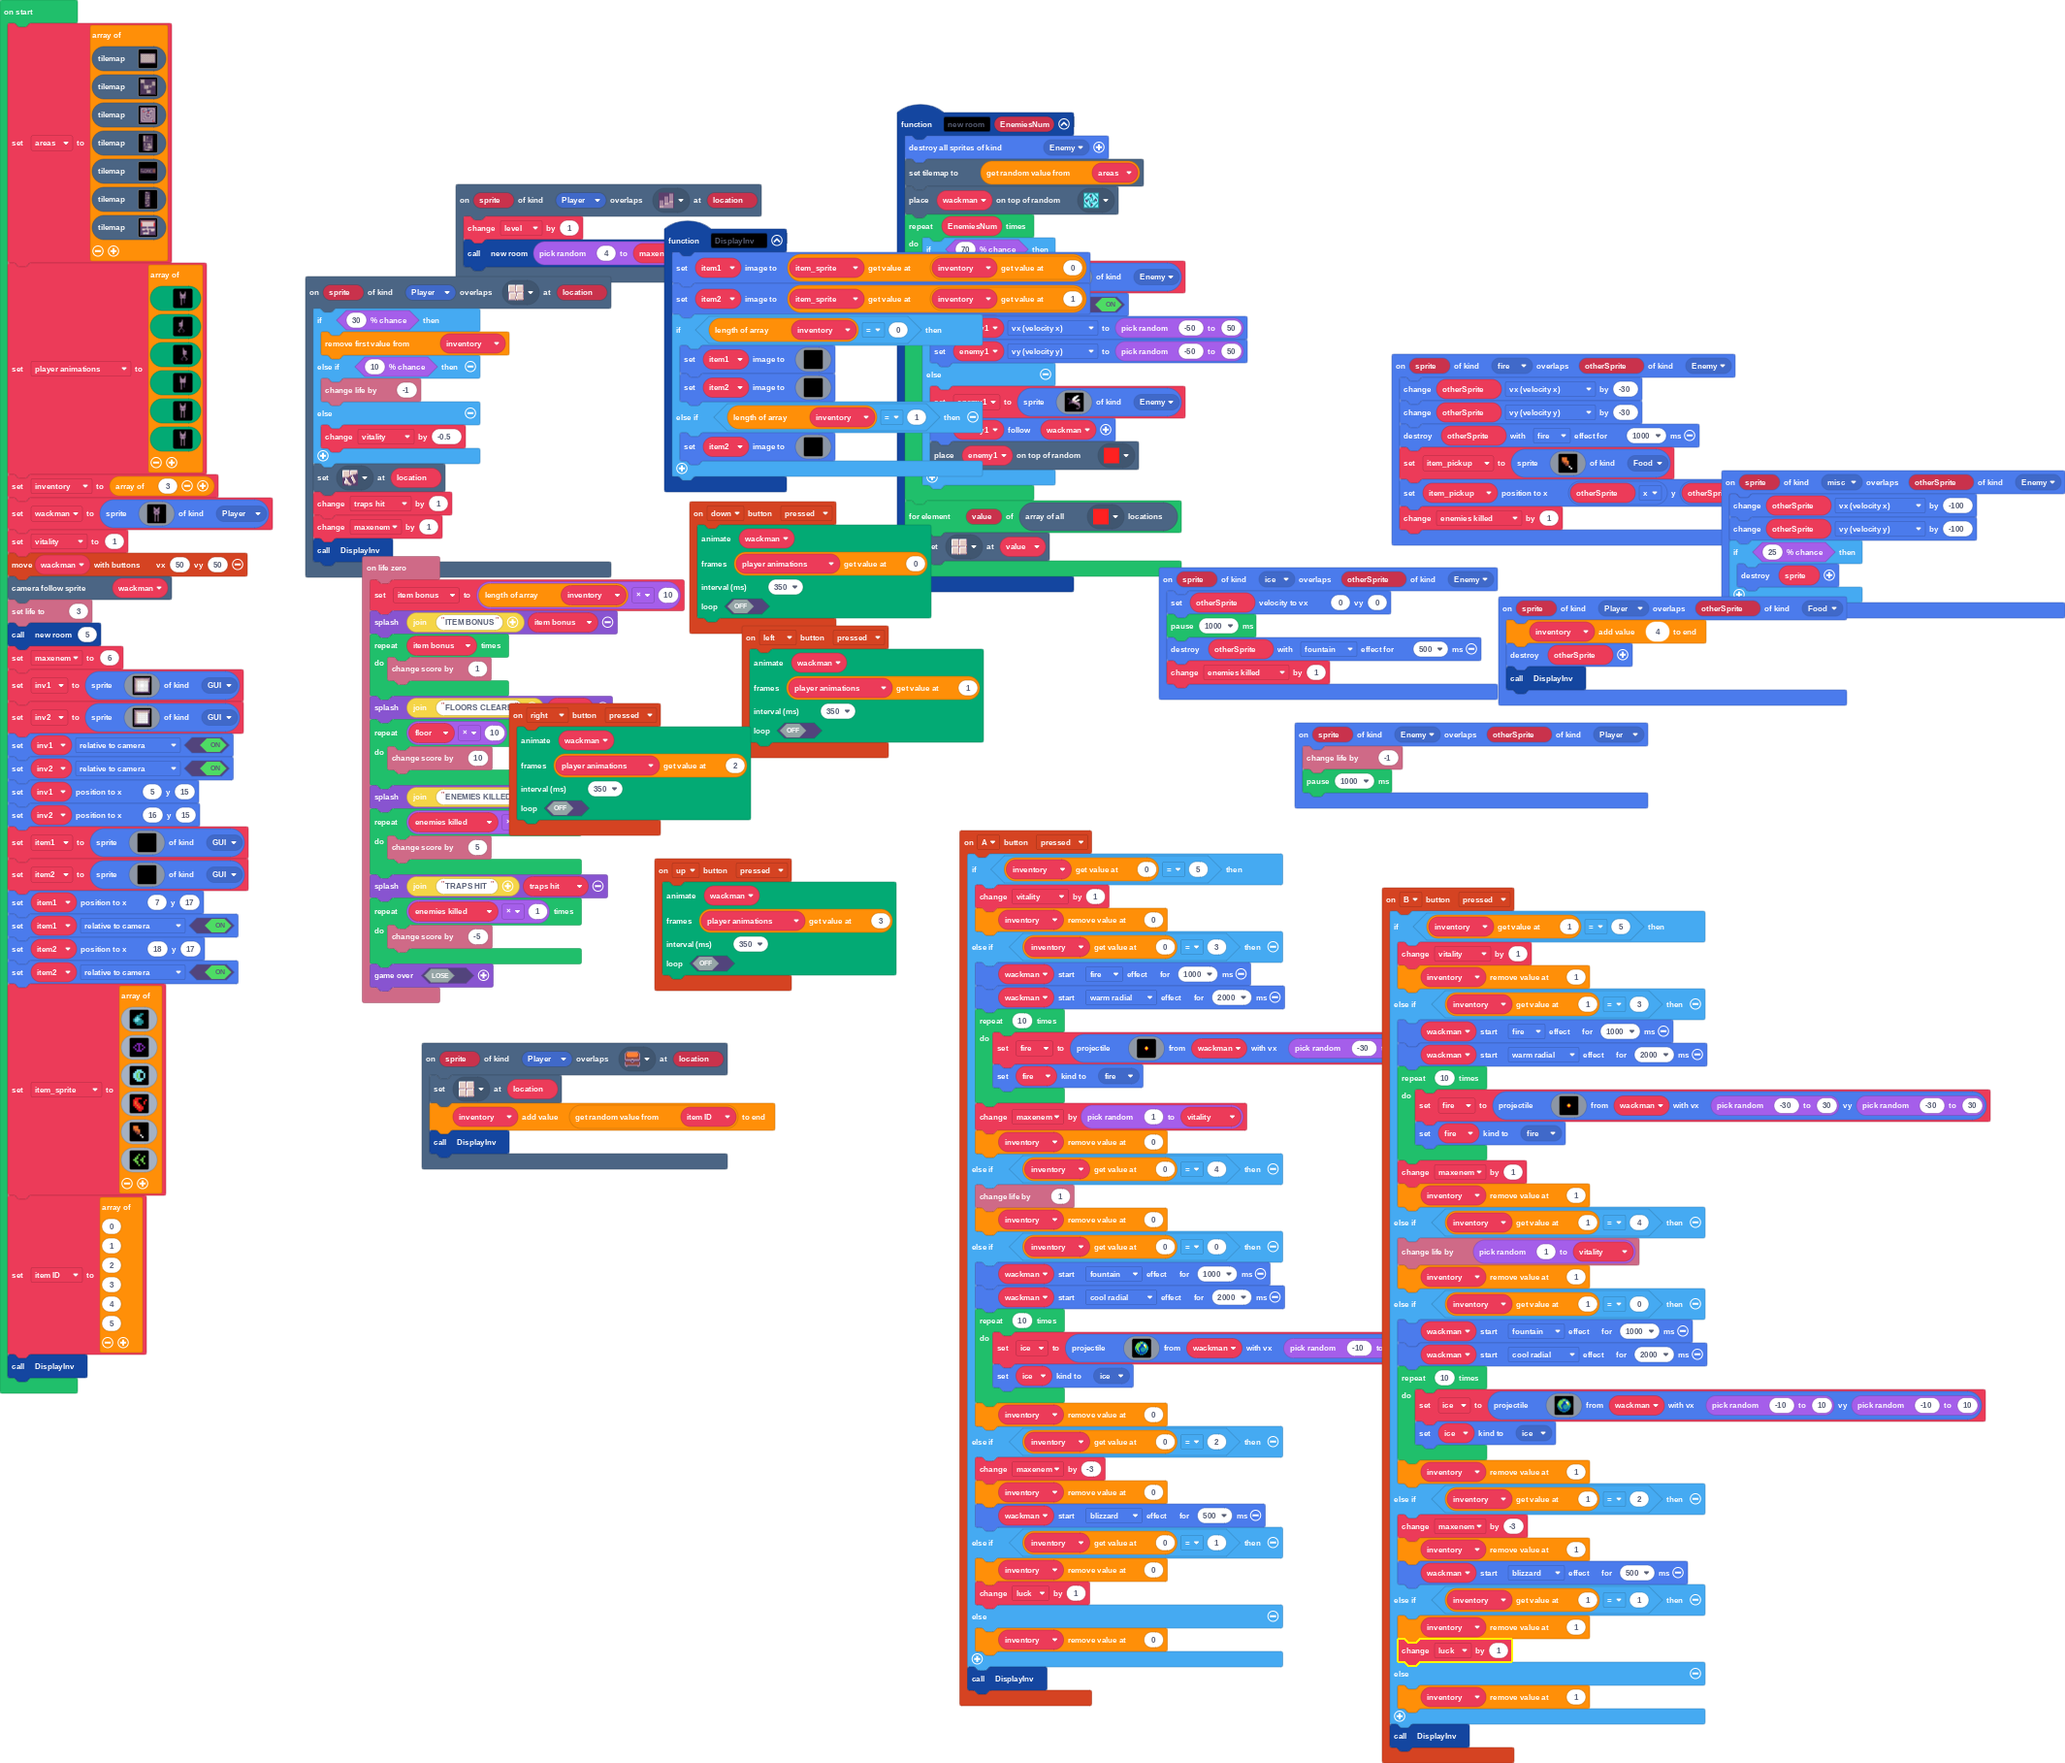
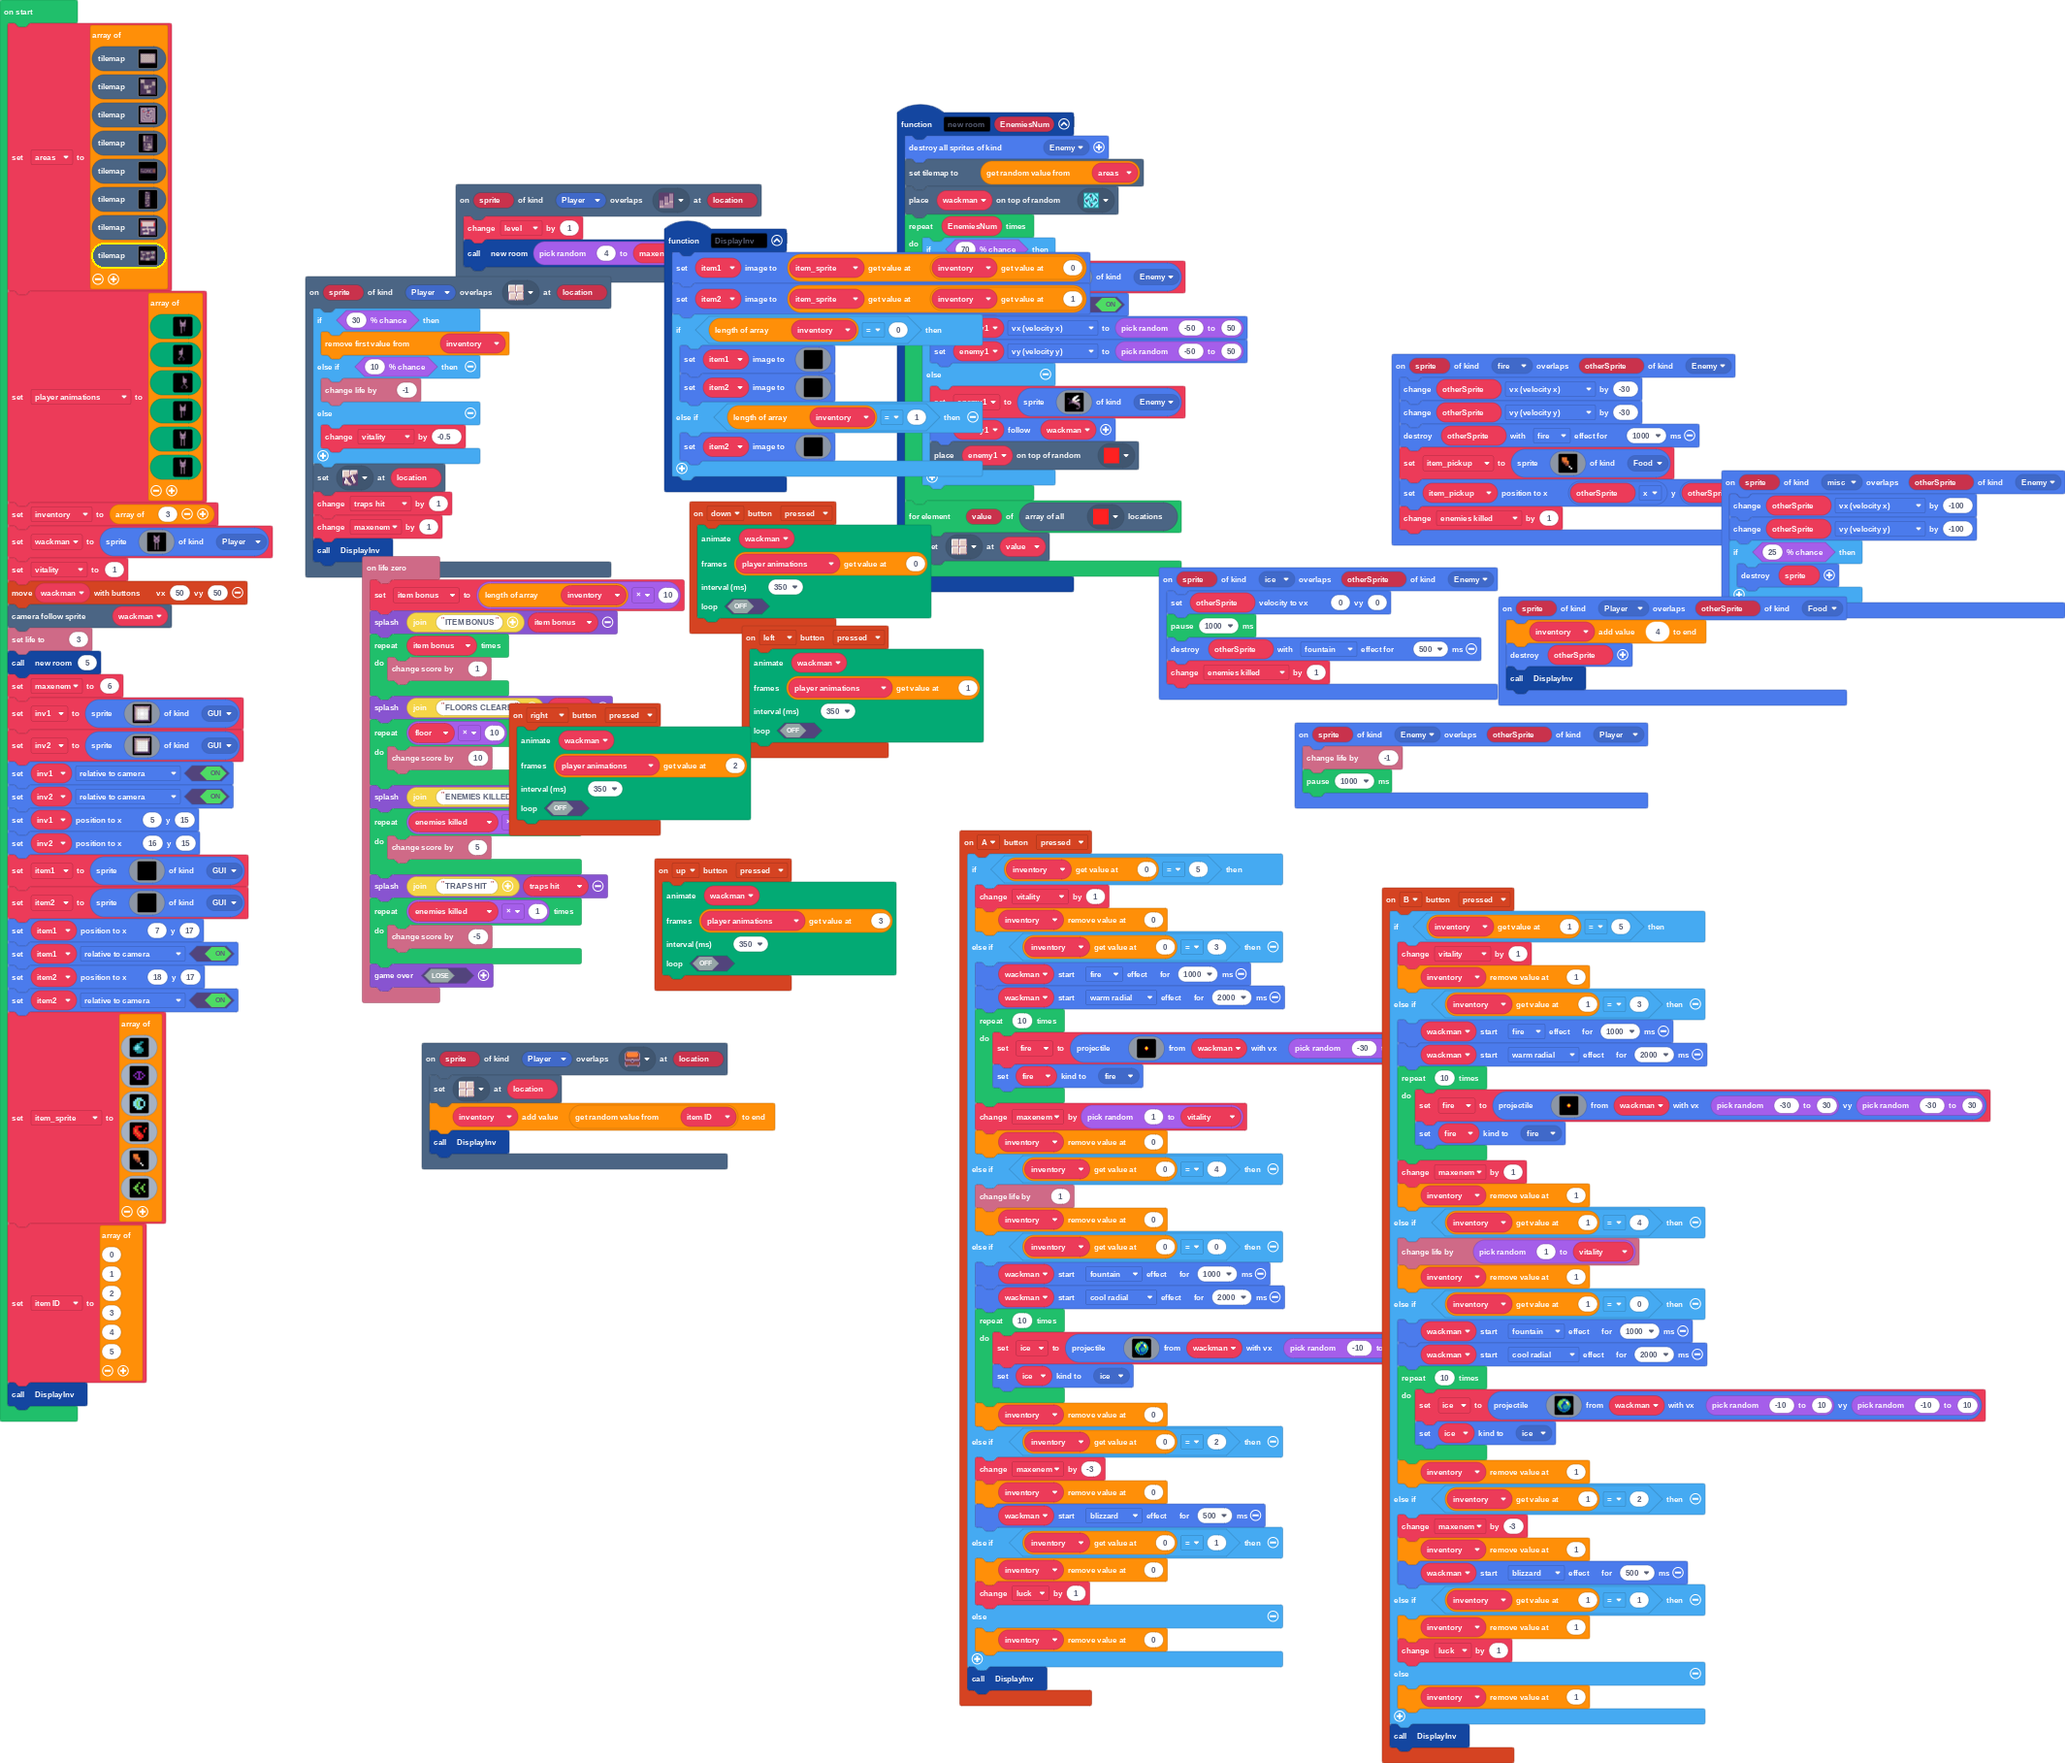
new level

diff --git a/tilemap.g.ts b/tilemap.g.ts
@@ -354,6 +354,53 @@ namespace myTiles {
 2 2 2 . . . . . . 2 2 2 2 2 2 2 
 2 2 2 2 2 2 2 2 2 2 2 2 2 2 2 2 
 `, [myTiles.transparency16,myTiles.tile1,sprites.dungeon.darkGroundNorthWest1,sprites.dungeon.floorLight0,sprites.dungeon.floorLight4,sprites.dungeon.stairLarge,sprites.dungeon.chestClosed,sprites.dungeon.collectibleInsignia], TileScale.Sixteen);
+            case "level14":
+            case "level14":return tiles.createTilemap(hex`1000100000000000000000000000000000000000000000000000000000000000000000000000000000000000000000000000000000000000000000000000000000000000000000000000000000000000000000000000000000000000000000000000000000000000000000000000000000000000000000000000000000000000000000000000000000000000000000000000000000000000000000000000000000000000000000000000000000000000000000000000000000000000000000000000000000000000000000000000000000000000000000000000000000000000000000000000000000000000000000000000000000000000000000000000000000000000`, img`
+. . . . . . . . . . . . . . . . 
+. . . . . . . . . . . . . . . . 
+. . . . . . . . . . . . . . . . 
+. . . . . . . . . . . . . . . . 
+. . . . . . . . . . . . . . . . 
+. . . . . . . . . . . . . . . . 
+. . . . . . . . . . . . . . . . 
+. . . . . . . . . . . . . . . . 
+. . . . . . . . . . . . . . . . 
+. . . . . . . . . . . . . . . . 
+. . . . . . . . . . . . . . . . 
+. . . . . . . . . . . . . . . . 
+. . . . . . . . . . . . . . . . 
+. . . . . . . . . . . . . . . . 
+. . . . . . . . . . . . . . . . 
+. . . . . . . . . . . . . . . . 
+`, [myTiles.transparency16], TileScale.Sixteen);
+            case "ruins_garden1":
[1 lines of base64/hex data omitted]
+2222222222222222222222222222222222222222
+22.....2222222222222222222222.........22
+22.....2222222222222222222222.........22
+22.......................2222.........22
+22.....222222222......................22
+2222.22222222222.........2222.........22
+2222.22222222222.........2222.........22
+2222.22222222222.........2222.........22
+2222.2.......222.........2222222.2222222
+2222.........222222.222222222222.2222222
+222222.......222222.222222222222.2222222
+222222.......222222.222222222222.2222222
+2222222.22222222222.222222222222.2222222
+2222222.22222222222.222222222222.2222222
+2222222.22222222222.22222222.........222
+2222222.22222222222.22222222.........222
+2222222.22222222222.22222222.........222
+2.......22222222222.222222...........222
+2.......2222222.........22.2.........222
+2.......2222222............2.........222
+2.......2222222.........2222222222222222
+2.......................2222222222222222
+2.......2222222.........2222222222222222
+222222222222222.........2222222222222222
+222222222222222.........2222222222222222
+`, [myTiles.transparency16,myTiles.tile1,sprites.dungeon.darkGroundNorthWest1,sprites.dungeon.floorLight0,sprites.dungeon.floorLight4,sprites.dungeon.stairLarge,sprites.dungeon.collectibleInsignia,sprites.dungeon.chestClosed,sprites.dungeon.floorLightMoss,sprites.castle.tileDarkGrass2,sprites.castle.tileDarkGrass3,sprites.castle.tileDarkGrass1], TileScale.Sixteen);
         }
         return null;
     })

diff --git a/images.g.ts b/images.g.ts
@@ -169,6 +169,29 @@ c c c c c c c c c
 . . . . . . . . . . . . . . . . 
 . . . . . . . . . . . . . . . . 
 `;
+            case "image13":
+            case "shopkeep_man":return img`
+.....................
+........2....2.......
+........2....2.......
+........22..22.......
+........222222.......
+........222222.......
+........222222.......
+.......2f22222.2.....
+.....2222222f2.22....
+...ee222222222.222...
+........222222.222...
+........2222222222...
+......222222222222...
+eeeeee22eeeeeeeeeeeee
+fff4f4224feef4fefeffe
+f44efffef4f4fef4f4f4f
+fff4f4f4fffefef4f4fff
+44f4f4f4fefef4f4fef44
+fffefef4f4f4f4fef4f44
+44444efefef44fef44fe4
+`;
         }
         return null;
     })

diff --git a/main.ts b/main.ts
@@ -356,7 +356,8 @@ tilemap`die1`,
 tilemap`level4`,
 tilemap`level7`,
 tilemap`level10`,
-tilemap`level12`
+tilemap`level12`,
+tilemap`ruins_garden1`
 ]
 player_animations = [
 assets.animation`wacky boy forward`,
